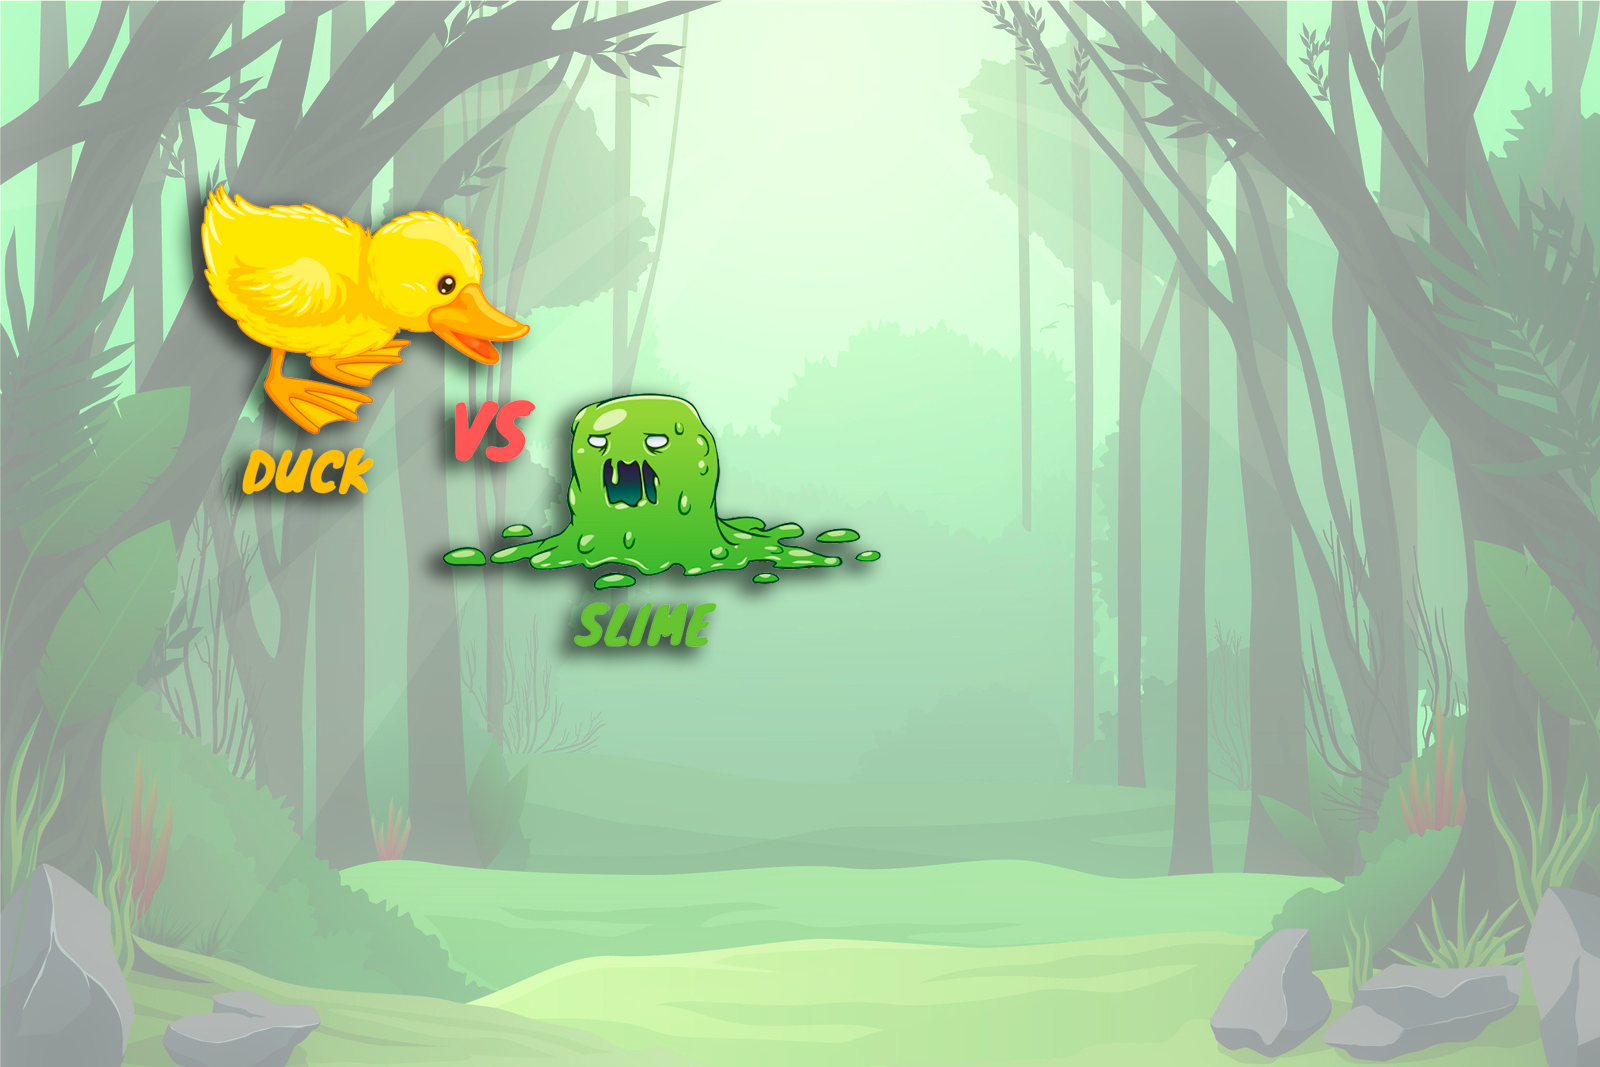
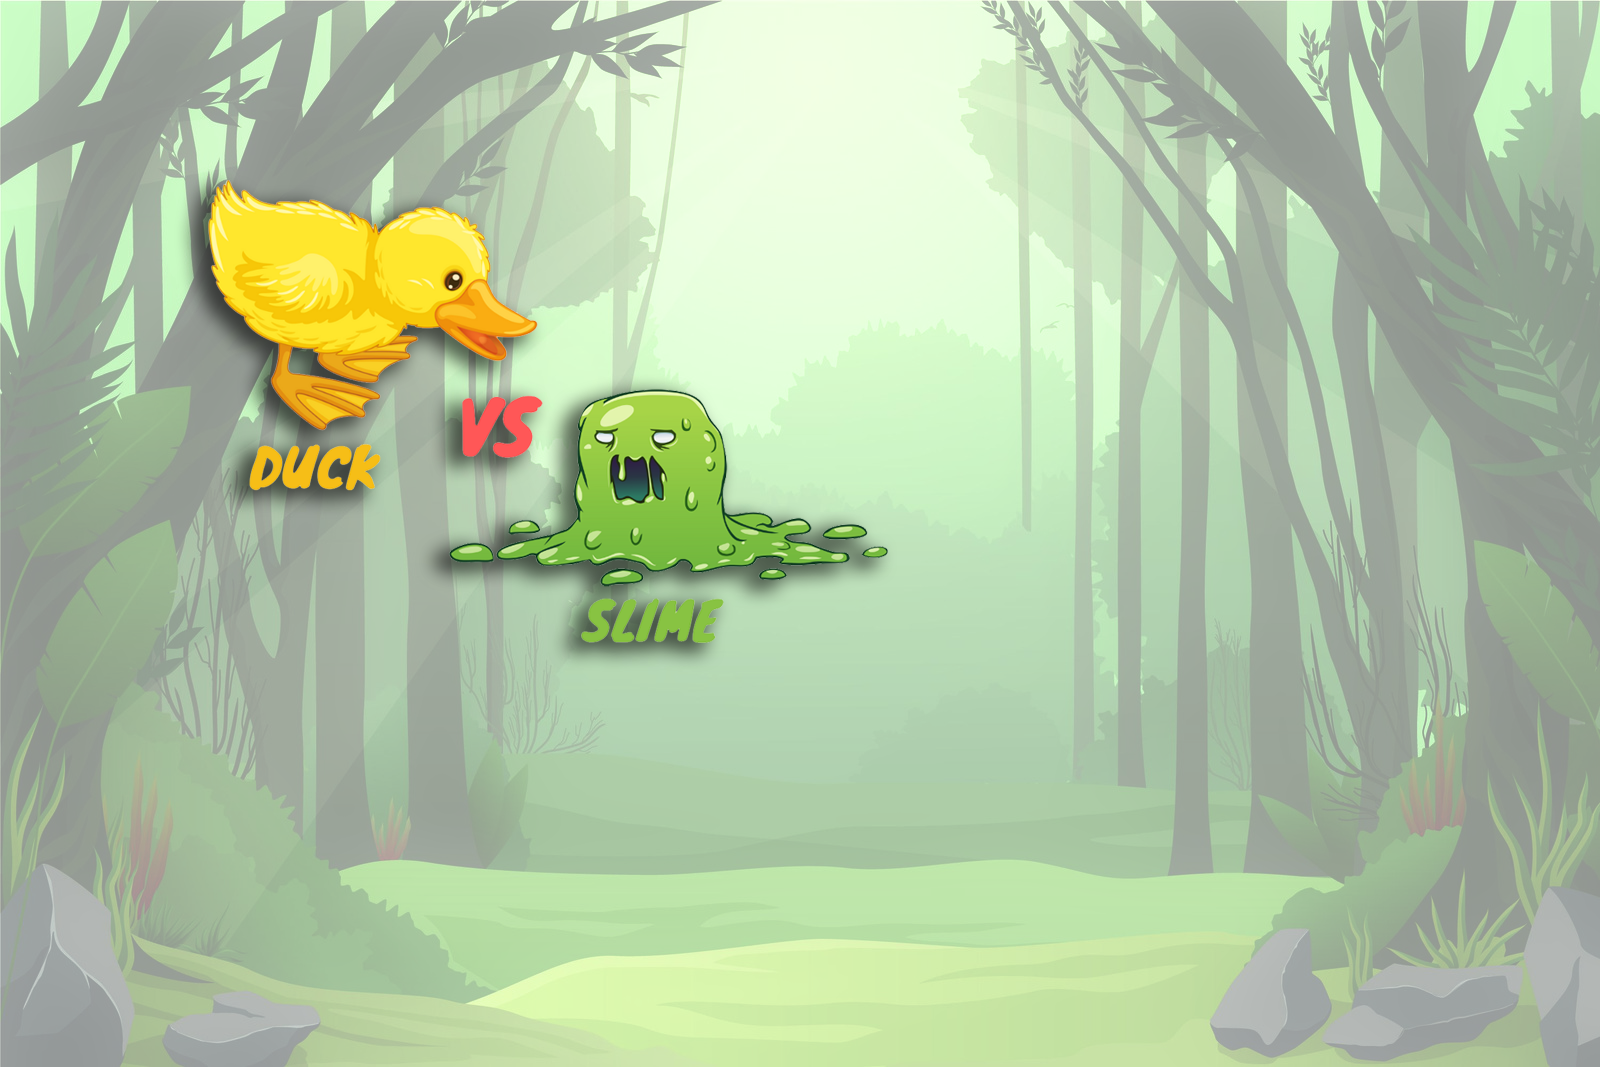
day7

Changed region(s): [[0.0938, 0.1546, 0.5625, 0.6186]]

diff --git a/styles/style.css b/styles/style.css
@@ -49,7 +49,7 @@ canvas {
 }
 
 .logo img {
-    width: 80%;
+    width: 90%;
 }
 
 .how-to-play {

diff --git a/README.md b/README.md
@@ -1,4 +1,4 @@
-# GAME_JADDE_HUGO
+# GAME_DUCK_VS_SLIME
 MVP
 ✅ Platforms
 ✅ Pick up all items to win
@@ -15,16 +15,13 @@ deBUG MVP
 ✅ Player Jump smoothness
 ✅ Player double jump disable
 ✅ Player shoot spacebar
-❌ Check collision Player/Platform-bottom
+✅ Check collision Player/Platform-bottom
 ✅ Player jump outside canvas
 ✅ Player shoot both sides
 
 BONUS
 ✅ Lives
-❌ Time
 ✅ Random enemies motion
-❌ Check Collision Bullet/Enemy (change enemy image)
-❌ Animation on Player death
 ✅ Move & Shoot at the same time
-❌ Sprites
-❌ Sounds
+✅ Sprites
+✅ Sounds
